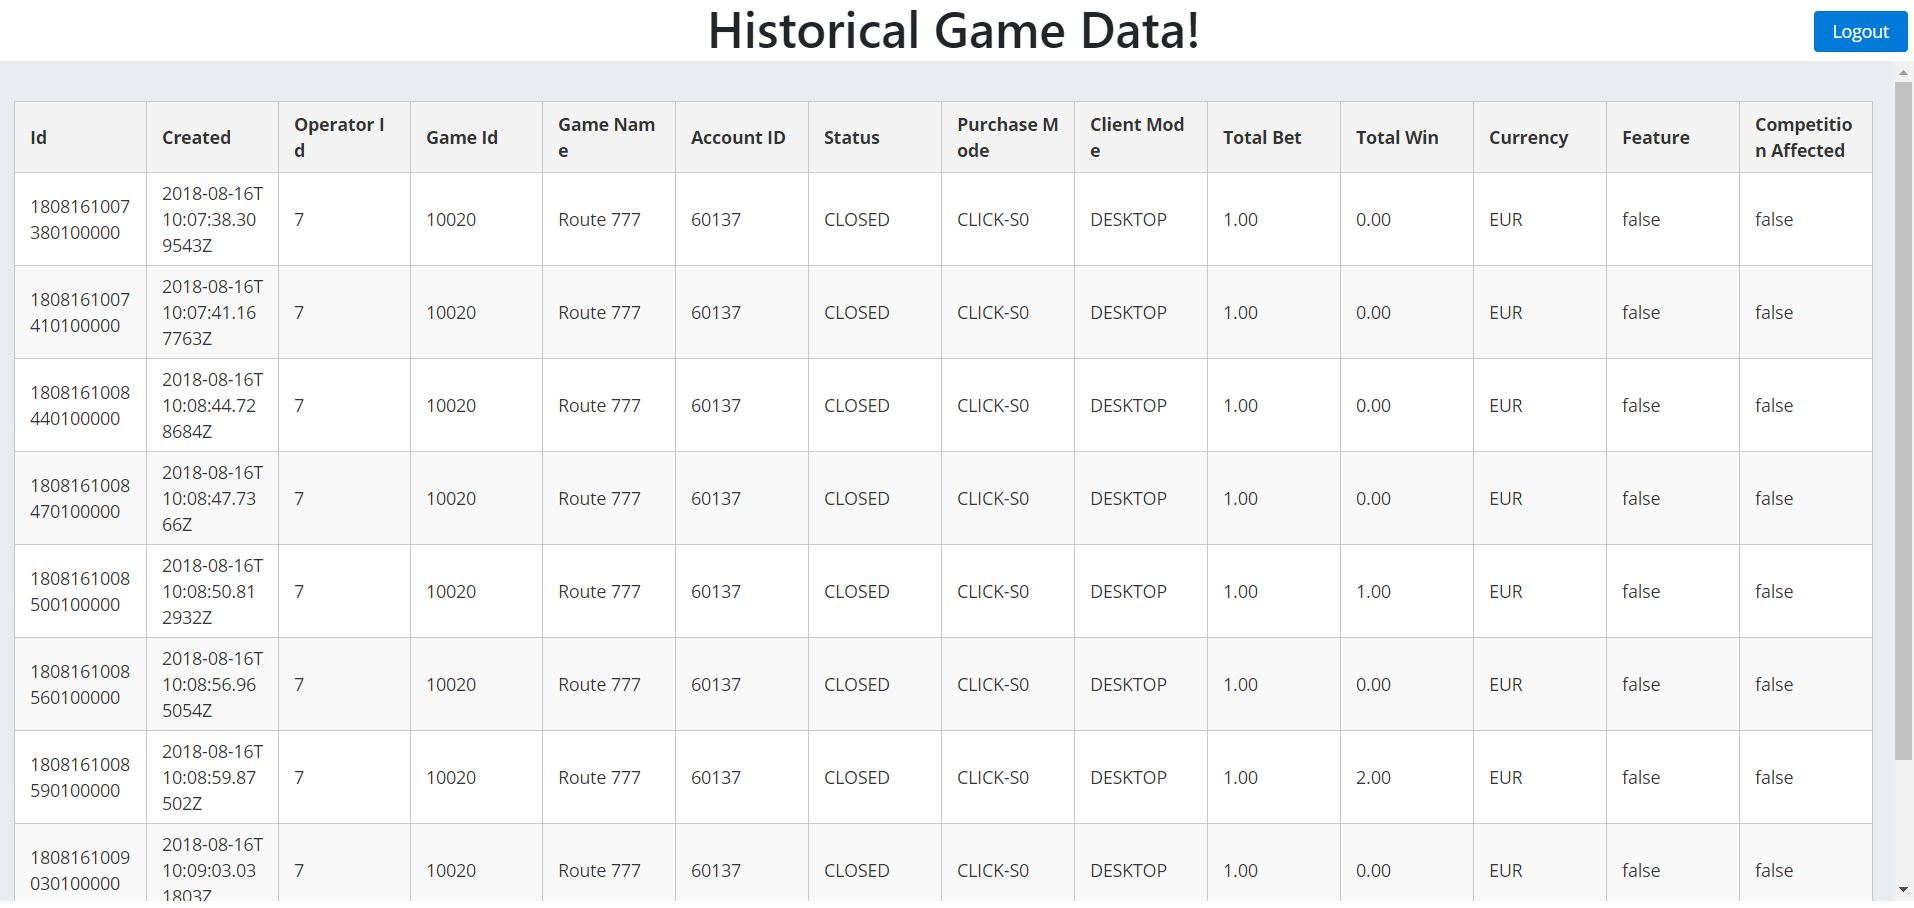
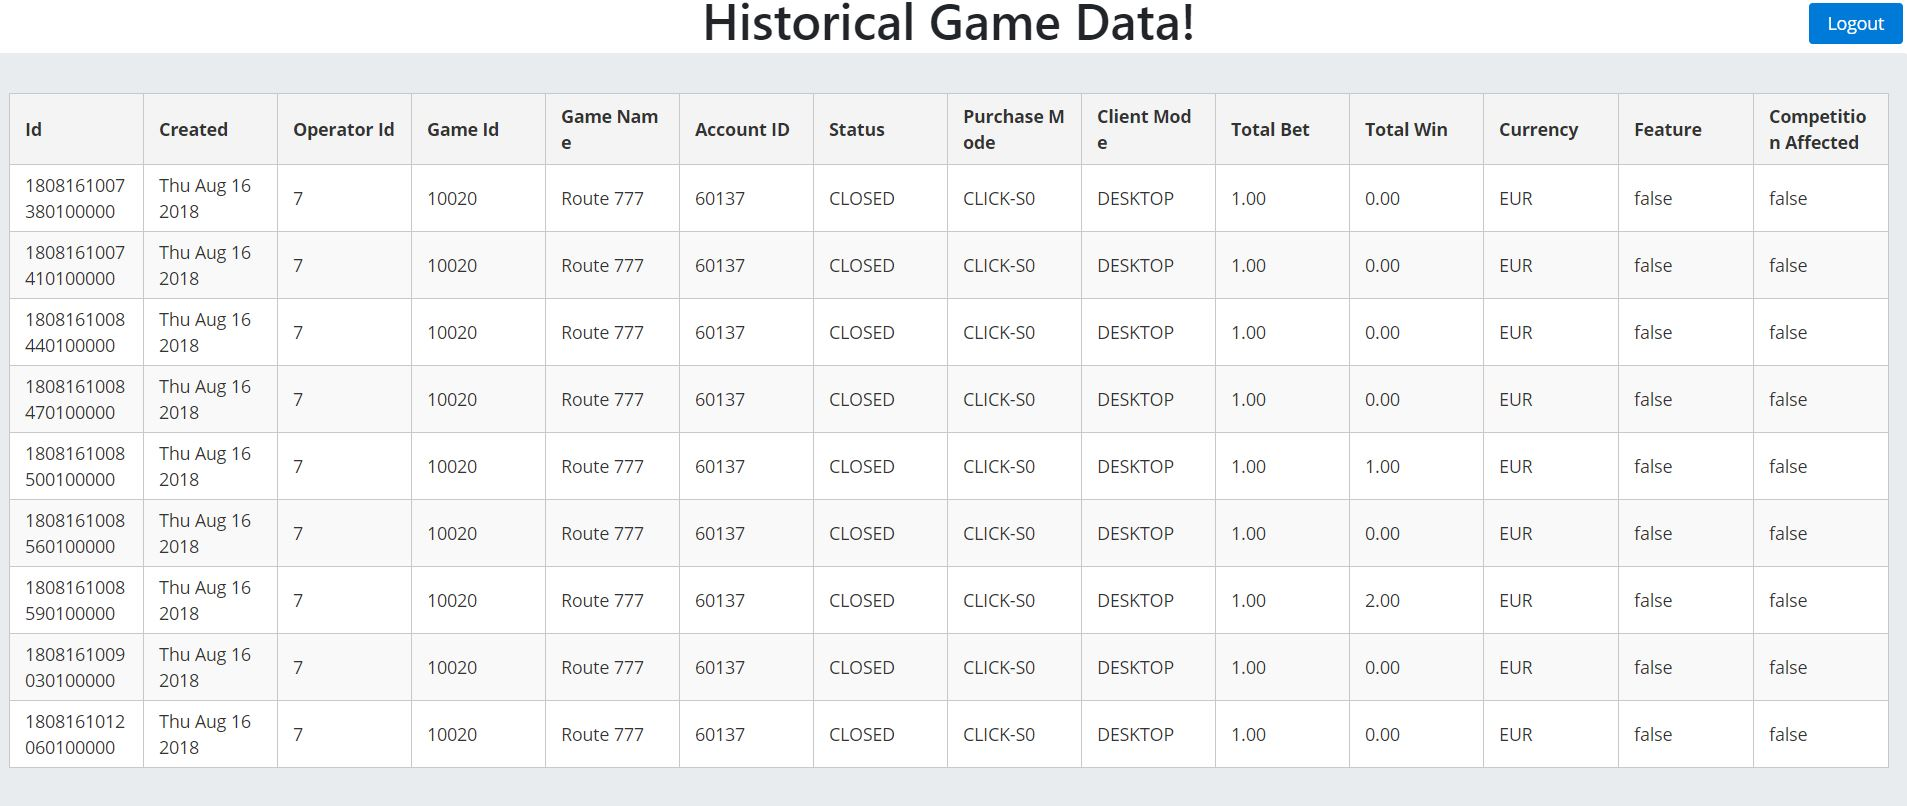
added date in readable format

diff --git a/src/app/components/home/home.component.html b/src/app/components/home/home.component.html
@@ -22,7 +22,7 @@
     <ng-template pTemplate="body" let-round>
         <tr>
             <td>{{round.id}}</td>
-            <td>{{round.created}}</td>
+            <td>{{getFormattedDate(round.created)}}</td>
             <td>{{round.operatorId}}</td>
             <td>{{round.gameId}}</td>
             <td>{{round.gameName}}</td>

diff --git a/src/app/components/home/home.component.ts b/src/app/components/home/home.component.ts
@@ -40,4 +40,13 @@ export class HomeComponent implements OnInit {
     });
   }
 
+/**
+ * @method getFormattedDate
+ * @param UTCDate
+ * @description returns the date in readable format
+ */
+  getFormattedDate(UTCDate): any {
+      return new Date(UTCDate).toDateString();
+  }
+
 }
